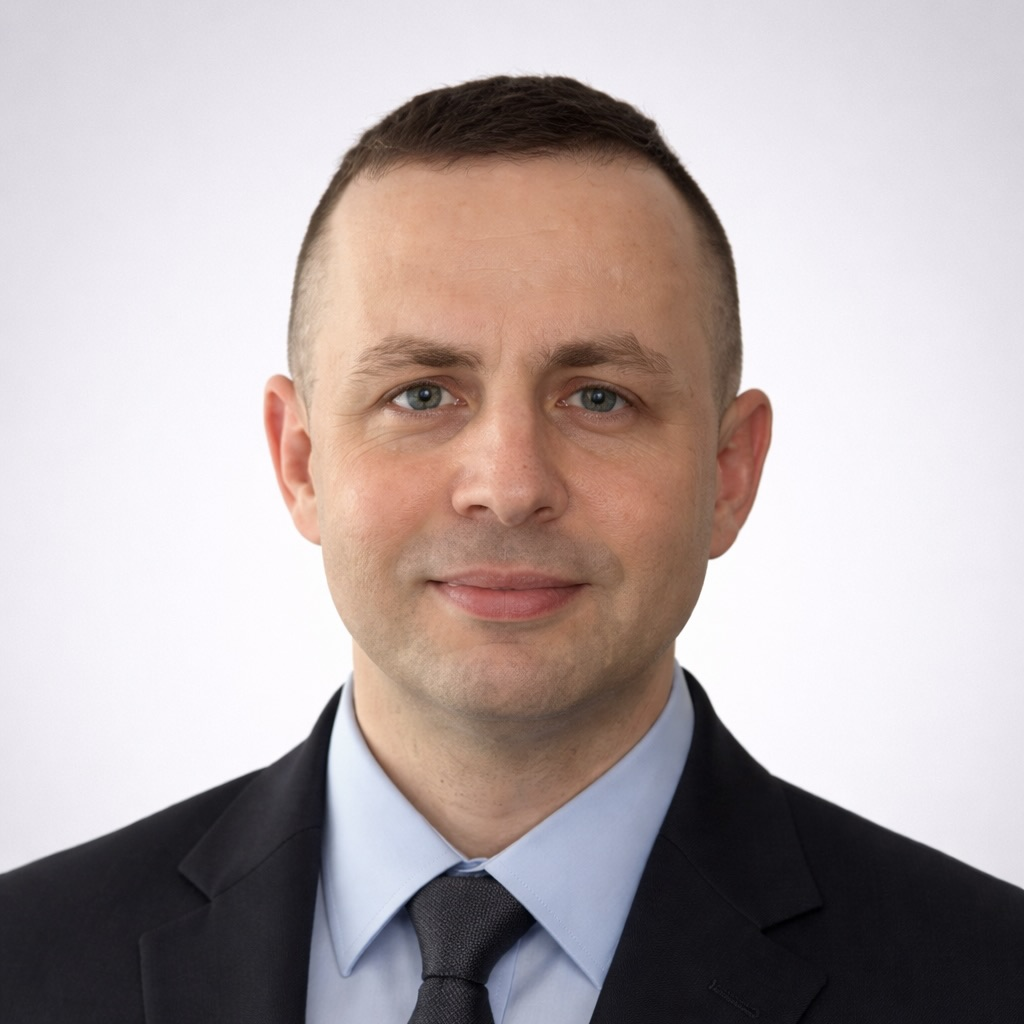
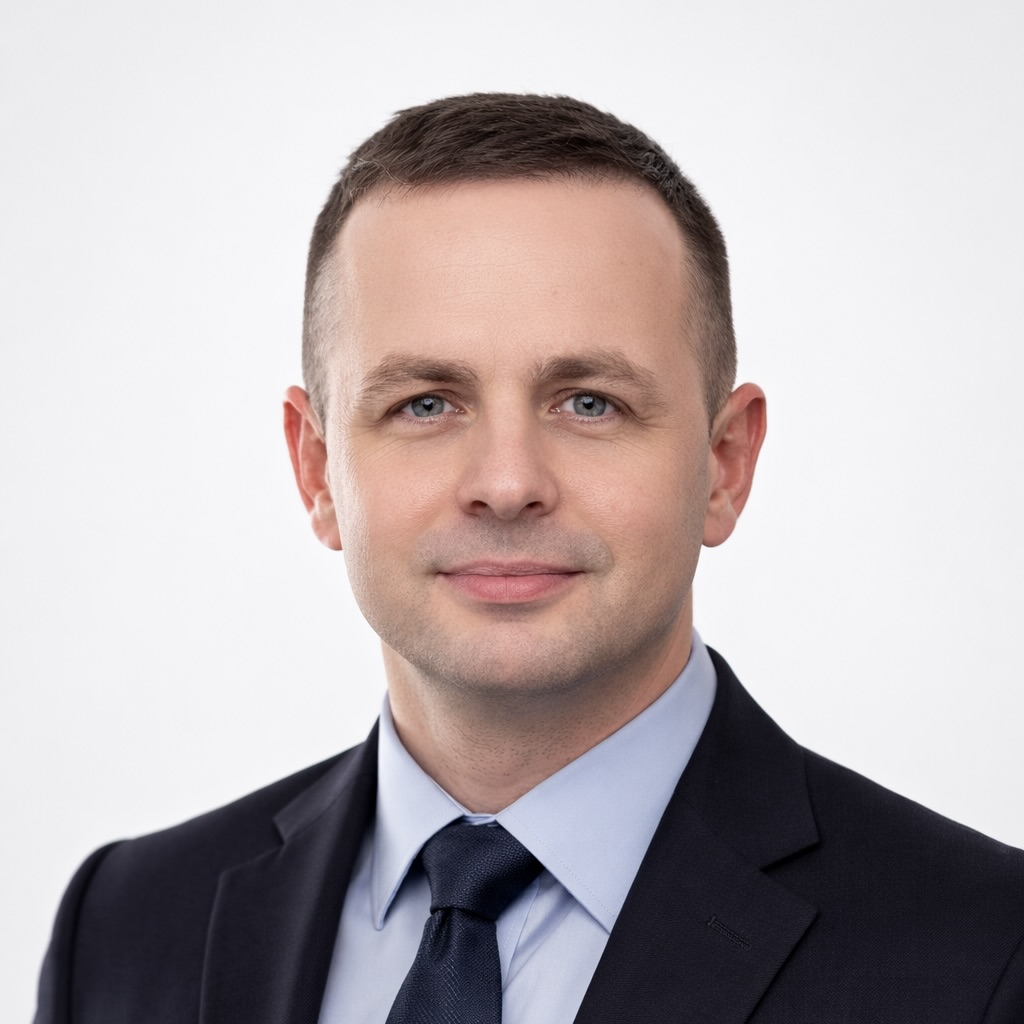
Update skills, experience sections, foto and address

diff --git a/index.html b/index.html
@@ -104,12 +104,12 @@
         </div>
 
         <div class="skills-block">
-          <h4>CMS & Content</h4>
+          <h4>CMS, Content & E-commerce</h4>
           <ul class="skills-list">
-            <li>Content and product management</li>
-            <li>Editing articles and pages</li>
-            <li>Website structure adjustments</li>
-            <li>SEO basics</li>
+            <li>WordPress (custom theme development)</li>
+            <li>WooCommerce (setup & configuration)</li>
+            <li>Website structure optimization</li>
+            <li>SEO, content/product management</li>
           </ul>
         </div>
 
@@ -179,8 +179,9 @@
           <span>01.2026 – present</span> <strong>Procode Academy</strong><br> <strong>Position:</strong> Web developer Intern
         </div>
         <div>
-          <p><strong>Tech stack:</strong> HTML5 / CSS / Java / PHP / Git / Docker </p>
+          <p><strong>Tech stack:</strong> HTML5 / CSS / PHP / Java / WordPress / WooCommerce / Git / Docker </p>
           <ul class="job-description">
+            <li>Designed and developed a web platform for online course sales </li>
             <li>Develop and maintain the Procode intranet application </li>
             <li>Contribute to web applications for industrial clients (e.g. Continental AG) </li>
             <li>Implement responsive UI based on provided designs and specifications </li>
@@ -207,7 +208,7 @@
   <footer>
     <p>
       © 2026 Jaroslav Takáč ·
-      <a href="https://jaroslavtakac.eu">jaroslavtakac.eu</a> ·
+      <a href="https://cv.jaroslavtakac.sk">cv.jaroslavtakac.sk</a> ·
       <a href="https://github.com/jaroslav-takac" target="_blank">GitHub</a> ·
       <a href="https://www.linkedin.com/in/jaroslavtakac780/" target="_blank">LinkedIn</a>
     </p>
